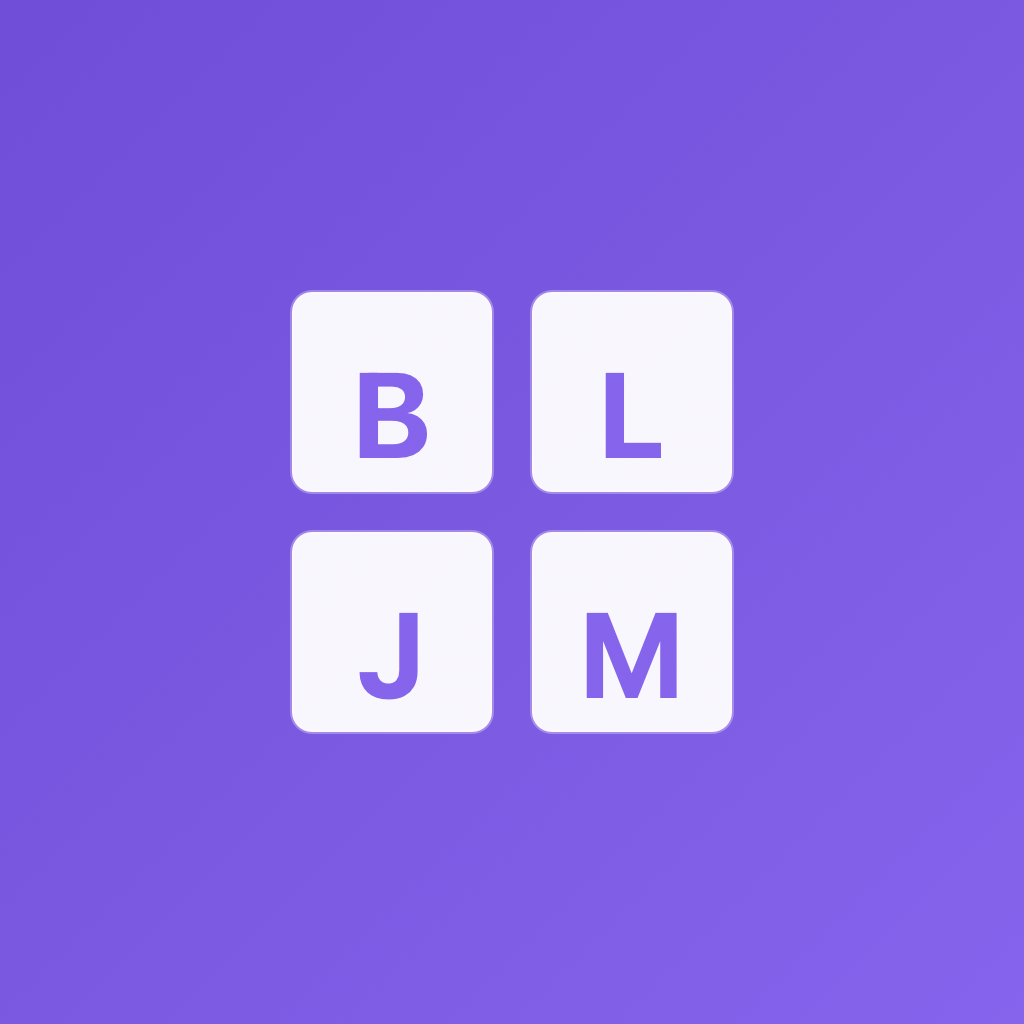
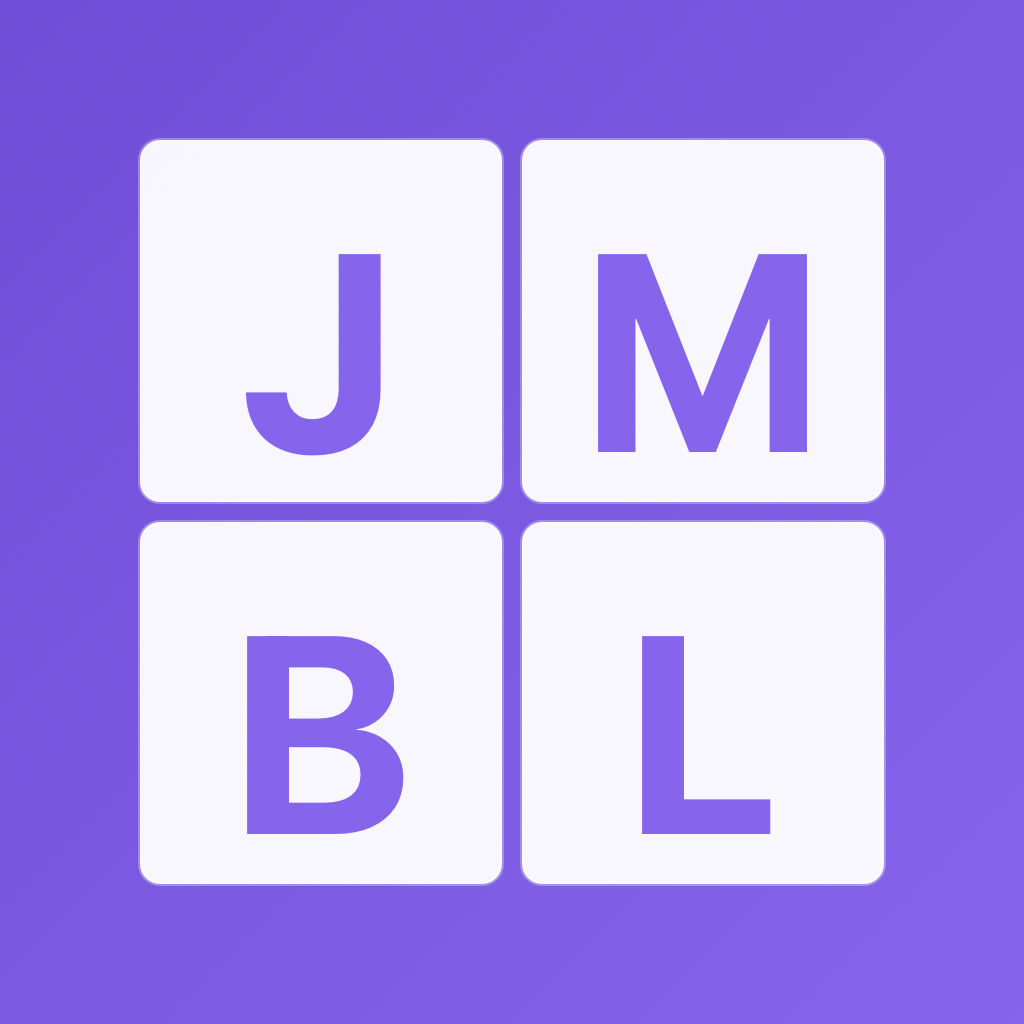
fix: update test bundle identifiers to match app name
- Changed ClauddleTests → JumbleTests
- Changed ClauddleUITests → JumbleUITests
- Ensures consistent naming across all project targets

🤖 Generated with [Claude Code](https://claude.com/claude-code)

diff --git a/BoggleApp/BoggleApp/LobbyView.swift b/BoggleApp/BoggleApp/LobbyView.swift
@@ -55,33 +55,20 @@ struct LobbyView: View {
                     .tint(.purple)
                     .font(.title3)
 
-                    HStack(spacing: 15) {
-                        NavigationLink(value: "profile") {
-                            Label("Profile", systemImage: "person.circle")
-                                .frame(maxWidth: .infinity)
-                        }
-                        .buttonStyle(.bordered)
-                        .tint(.purple)
-                        .controlSize(.small)
-
-                        NavigationLink(value: "leaderboard") {
-                            Label("Board", systemImage: "trophy")
-                                .frame(maxWidth: .infinity)
-                        }
-                        .buttonStyle(.bordered)
-                        .tint(.purple)
-                        .controlSize(.small)
+                    NavigationLink(value: "leaderboard") {
+                        Label("Leaderboard", systemImage: "trophy")
+                            .frame(width: 200)
                     }
-                    .frame(width: 200)
+                    .buttonStyle(.bordered)
+                    .tint(.purple)
                 }
             }
             .padding()
             .toolbar {
                 ToolbarItem(placement: .navigationBarTrailing) {
-                    Button {
-                        handleSignOut()
-                    } label: {
-                        Label("Sign Out", systemImage: "rectangle.portrait.and.arrow.right")
+                    NavigationLink(value: "profile") {
+                        Image(systemName: "person.circle")
+                            .font(.title2)
                     }
                 }
             }
@@ -129,7 +116,7 @@ struct LobbyView: View {
                 } else if destination == "joinGame" {
                     JoinGameView(navigationPath: $navigationPath)
                 } else if destination == "profile" {
-                    ProfileView()
+                    ProfileView(isLoggedIn: $isLoggedIn)
                 } else if destination == "leaderboard" {
                     LeaderboardView()
                 } else if destination.hasPrefix("waitingRoom:") {
@@ -171,11 +158,6 @@ struct LobbyView: View {
             userEmail = user.email
             userDisplayName = user.displayName
         }
-    }
-
-    private func handleSignOut() {
-        JumbleAPI.shared.logout()
-        isLoggedIn = false
     }
 
     private func attemptReconnection() {

diff --git a/BoggleApp/BoggleApp/LoginView.swift b/BoggleApp/BoggleApp/LoginView.swift
@@ -36,6 +36,36 @@ struct LoginView: View {
                 .font(.largeTitle)
                 .fontWeight(.bold)
 
+            // Google Sign-In button
+            Button {
+                Task {
+                    await handleGoogleSignIn()
+                }
+            } label: {
+                HStack {
+                    Image(systemName: "g.circle.fill")
+                    Text("Sign in with Google")
+                }
+                .frame(maxWidth: .infinity)
+            }
+            .buttonStyle(.bordered)
+            .tint(.purple)
+            .disabled(isLoading)
+
+            // OR divider
+            HStack {
+                Rectangle()
+                    .frame(height: 1)
+                    .foregroundStyle(.gray.opacity(0.3))
+                Text("OR")
+                    .font(.caption)
+                    .foregroundStyle(.gray)
+                Rectangle()
+                    .frame(height: 1)
+                    .foregroundStyle(.gray.opacity(0.3))
+            }
+            .padding(.vertical, 10)
+
             VStack(spacing: 15) {
                 TextField("Email", text: $email)
                     .textFieldStyle(.roundedBorder)
@@ -76,35 +106,8 @@ struct LoginView: View {
             .font(.caption)
             .foregroundStyle(.purple)
 
-            // OR divider
-            HStack {
-                Rectangle()
-                    .frame(height: 1)
-                    .foregroundStyle(.gray.opacity(0.3))
-                Text("OR")
-                    .font(.caption)
-                    .foregroundStyle(.gray)
-                Rectangle()
-                    .frame(height: 1)
-                    .foregroundStyle(.gray.opacity(0.3))
-            }
-            .padding(.vertical, 10)
 
-            // Google Sign-In button
-            Button {
-                Task {
-                    await handleGoogleSignIn()
-                }
-            } label: {
-                HStack {
-                    Image(systemName: "g.circle.fill")
-                    Text("Sign in with Google")
-                }
-                .frame(maxWidth: .infinity)
-            }
-            .buttonStyle(.bordered)
-            .tint(.purple)
-            .disabled(isLoading)
+
 
             if isLoading {
                 ProgressView()

diff --git a/generate_icon.swift b/generate_icon.swift
@@ -22,17 +22,20 @@ func generateIcon() {
     let gradient = NSGradient(colors: [purple1, purple2])
     gradient?.draw(in: NSRect(origin: .zero, size: size), angle: 135)
 
-    // Draw 4 letter tiles in a 2x2 grid pattern
-    let tileSize: CGFloat = 200
-    let spacing: CGFloat = 40
-    let totalWidth = (tileSize * 2) + spacing
-    let startX = (size.width - totalWidth) / 2
-    let startY = (size.height - totalWidth) / 2
+    // Draw 4 letter tiles in a 2x2 grid pattern with 10px margins
+    let margin: CGFloat = 140
+    let spacing: CGFloat = 20
+    let tileSize: CGFloat = (size.width - margin * 2 - spacing) / 2  // 497
+    let startX = margin
+    let startY = margin
 
-    let letters = ["J", "M", "B", "L"]
+    // Note: In AppKit, y=0 is at the bottom, so positions are:
+    // (0, 0) = bottom-left, (1, 0) = bottom-right
+    // (0, 1) = top-left, (1, 1) = top-right
+    let letters = ["B", "L", "J", "M"]  // Ordered to match positions for J-M (top), B-L (bottom)
     let positions = [
-        (0, 0), (1, 0),  // Top row
-        (0, 1), (1, 1)   // Bottom row
+        (0, 0), (1, 0),  // Bottom row: B, L
+        (0, 1), (1, 1)   // Top row: J, M
     ]
 
     for (index, pos) in positions.enumerated() {
@@ -56,13 +59,14 @@ func generateIcon() {
         let paragraphStyle = NSMutableParagraphStyle()
         paragraphStyle.alignment = .center
 
+        let fontSize: CGFloat = 280
         let attrs: [NSAttributedString.Key: Any] = [
-            .font: NSFont.systemFont(ofSize: 120, weight: .bold),
+            .font: NSFont.systemFont(ofSize: fontSize, weight: .bold),
             .foregroundColor: NSColor(red: 0.545, green: 0.361, blue: 0.965, alpha: 1.0),
             .paragraphStyle: paragraphStyle
         ]
 
-        let textRect = NSRect(x: x, y: y + (tileSize - 120) / 2 - 10, width: tileSize, height: 120)
+        let textRect = NSRect(x: x, y: y + (tileSize - fontSize) / 2, width: tileSize, height: fontSize)
         letter.draw(in: textRect, withAttributes: attrs)
     }
 
